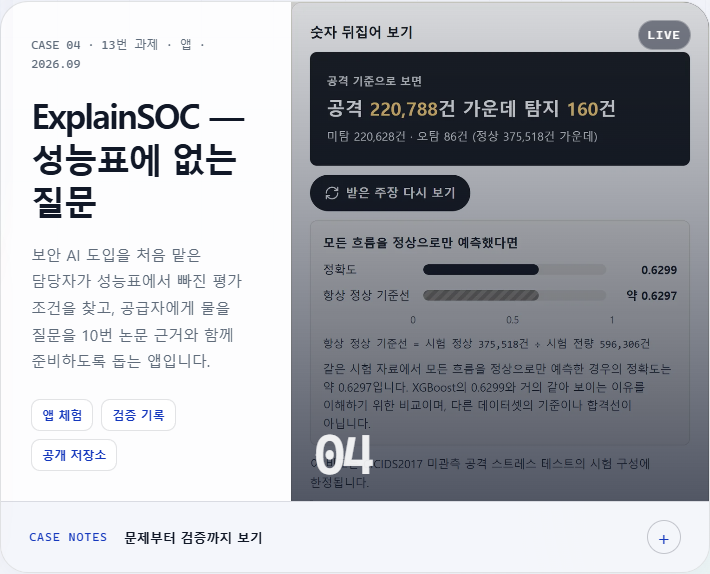
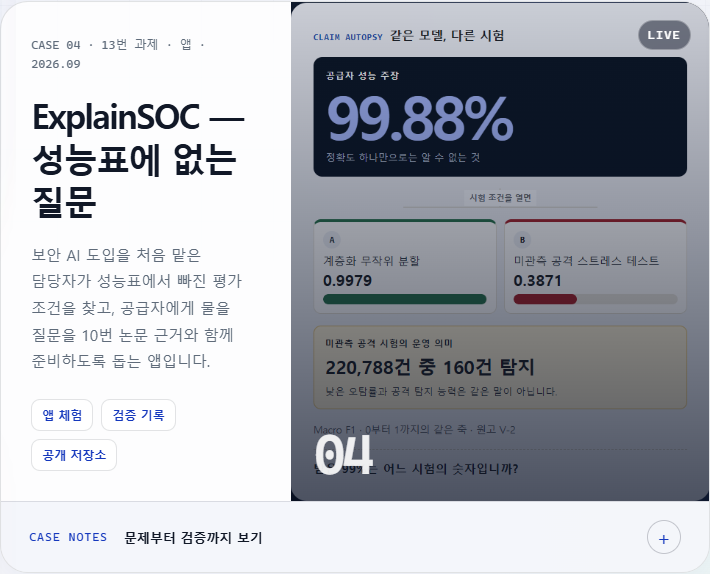
docs: record V4 release and portfolio proof

diff --git a/evidence/card-5.md b/evidence/card-5.md
@@ -1,8 +1,32 @@
 # 카드 5 증거 — 포트폴리오와 제출
 
+## V4 대표 앱 제출본 — 2026-09-22
+
+> 이 섹션이 아래 V1~V3 실행 묶음과 검증 값을 대체한다. 아래 내용은 당시 이력으로 남겨 둔다.
+
+| 항목 | V4 제출본 |
+|---|---|
+| 구현 커밋 | `32208672ed96d87fcd1ccb319d2c66a6debce41c` |
+| 배포 | [GitHub Actions run 35700989600](https://github.com/myeongjundev/explainsoc/actions/runs/35700989600) 검사·Pages 성공 |
+| 공개 주소 | https://myeongjundev.github.io/explainsoc/ |
+| 실행 묶음 | `explainsoc-3220867.zip` · 136,265 bytes · 62개 파일 |
[1 lines of base64/hex data omitted]
+| 재현 | 같은 커밋으로 두 번 생성한 SHA-256 일치 |
+| 빈 폴더 검증 | 저장소 밖 새 임시 폴더에서 `npm ci`, 프로덕션 빌드, 안전 검사 11개, Vitest 91개, Playwright 25개 통과(증거 캡처 9개 제외) |
+| 공개본 검증 | JS `index-CfDxTmKS.js`, CSS `index-2ZwK-MBR.css` 로컬 빌드와 SHA-256 일치 · Playwright 25개 통과 |
+
+V4는 기존 R01~R14·회차 JSON·보안 경계를 유지하면서 화면의 제품 서사를 바꿨다. 첫 화면에서
+`99.88% → 시험 조건 → 220,788건 중 160건 탐지`를 해부하고, 결과는 `주장과 근거 / 판독 / 다음 행동`
+3열 수사 보드로 읽는다. 같은 시험·미확인·별도 시험은 회차 타임라인에서 다른 분기로 보이며,
+Decision Dossier 앞장은 다음 회의의 질문 수와 우선 질문을 원문 기록보다 먼저 보여 준다.
+
+V4 전용 증거 화면은 `evidence/v4-investigation-board-desktop.png`,
+`evidence/v4-separate-branch-desktop.png`, `evidence/v4-dossier-mobile.png`에 있다. 공개 주소에서도 같은
+세 장을 `evidence/screenshots/live/`에 다시 찍었다.
+
 ## V3 제출본 갱신 — 2026-09-22
 
-> 이 섹션이 아래 V1·V2 기록의 실행 묶음·검증 값을 대체한다. 아래 내용은 당시의 이력으로 남겨 둔다.
+> V4 전 최종 V3 기록이다. 현재 제출본은 바로 위 V4 기록을 따른다.
 
 | 항목 | V3 제출본 |
 |---|---|
@@ -32,12 +56,12 @@ V3는 최초 주장과 후속 공급자 답변을 회차로 비교하고, 같은
 
 | 항목 | 값 |
 |---|---|
-| 저장소·커밋 | `myeongjundev/about` [`1dbbbfc`](https://github.com/myeongjundev/about/commit/1dbbbfc) (연결), [`ea77b4e`](https://github.com/myeongjundev/about/commit/ea77b4e) (검증 칸 테스트 수) — 제출본 `a413189` 뒤의 제출 뒤 갱신 |
+| 저장소·커밋 | `myeongjundev/about` [`5584650`](https://github.com/myeongjundev/about/commit/5584650) (V4 그림·사례 노트·검증 수) — 최초 연결 `1dbbbfc`, V3 갱신 `b52d33b` |
 | 바꾼 것 | `content/approved.json`의 `t13-app`을 `planned` → `published`. 예정일을 빼고 이름·한 문장·사례 노트 넷·그림·링크 셋을 채웠다 |
 | 이름 | ExplainSOC — 성능표에 없는 질문 |
 | 한 문장 | 보안 AI 도입을 처음 맡은 담당자가 성능표에서 빠진 평가 조건을 찾고, 공급자에게 물을 질문을 10번 논문 근거와 함께 준비하도록 돕는 앱입니다. |
 | 링크 | 앱 체험 (공개 주소) · 검증 기록 (`evidence/card-4.md`) · 공개 저장소 |
-| 그림 | `docs/assets/t13-claim-flip.webp` 900×1200 — 공개 주소에서 찍은 "숫자 뒤집어 보기" 칸 |
+| 그림 | `docs/assets/t13-claim-investigation-v4.png` 571×680 — 공개 주소의 Claim Autopsy 전체 |
 
 한 문장은 앱 첫 화면의 도움 문장에 "10번 논문"만 더했다. 12번 사이트에서 바로 위 카드가 10번
 논문이라 둘이 이어져 읽힌다.
@@ -47,16 +71,15 @@ V3는 최초 주장과 후속 공급자 답변을 회차로 비교하고, 같은
 | 칸 | 문장 | 근거 |
 |---|---|---|
 | 문제 | 10번 논문에서 같은 XGBoost가 무작위 분할에서는 Macro F1 0.9979, 학습에 없던 공격을 시험하면 0.3871이었습니다. 제품 소개서의 성능 숫자 하나로는 무엇을 시험한 점수인지 알 수 없습니다. | 원고 V-2, `evidence/card-1.md` |
-| 판단 | 숫자의 좋고 나쁨을 판정하는 대신, 논문 근거 규칙 13개로 빠진 조건과 모순을 찾고 질문·답변·다음 행동이 남는 PoC 검토 작업대로 바꿨습니다. | `planning/DESIGN.md`, `src/domain/reviewRules.ts` |
-| 구현 | React·TypeScript·Vite 정적 앱에 평가 근거 지도, 질문별 상태·메모, 회차 비교, JSON 저장·열기, 자료 요청서와 검토표를 연결했습니다. 입력은 브라우저 안에서만 다루고 콘텐츠 보안 정책으로 외부 전송을 막았습니다. | `evidence/card-3.md`, V3 구현 커밋 |
-| 검증 | 단위·컴포넌트 테스트 91개와 WCAG 2.2 AA를 포함한 실제 브라우저 테스트 24개를 통과한 커밋만 배포되게 했습니다. 재현 가능한 ZIP을 저장소 밖 빈 폴더에 풀어 설치·빌드·브라우저 검사까지 다시 통과했습니다. | `evidence/card-4.md`, 이 문서 V3 제출본 갱신 |
+| 판단 | 숫자의 좋고 나쁨을 판정하는 대신, 99% 주장을 시험 조건과 운영 의미로 해부하고 근거·판독·다음 행동이 이어지는 성능 주장 수사 보드로 만들었습니다. | `planning/DESIGN.md` 26절 |
+| 구현 | React·TypeScript·Vite 정적 앱에 Claim Autopsy, 6항목 근거 지도, 시험 분기 타임라인, 회차 JSON과 Decision Dossier를 연결했습니다. 입력은 브라우저 안에서만 다루고 콘텐츠 보안 정책으로 외부 전송을 막았습니다. | V4 구현 커밋 `3220867` |
+| 검증 | 단위·컴포넌트 테스트 91개와 WCAG 2.2 AA·375px·키보드·인쇄를 포함한 실제 브라우저 테스트 25개를 통과한 커밋만 배포되게 했습니다. 재현 가능한 ZIP을 저장소 밖 빈 폴더에 풀어 설치·빌드·브라우저 검사까지 다시 통과했습니다. | 이 문서 V4 제출본 기록 |
 
-처음 연결할 때는 74개였고 V1 카드에서 75개로 고쳤다(`ea77b4e`). V3 현재 수치는 91개·24개다.
+처음 연결할 때는 74개였고 V1 카드에서 75개로 고쳤다(`ea77b4e`). V4 현재 수치는 91개·25개다.
 
-**그림을 세로로 다시 찍은 이유.** 대표작 칸은 데스크톱에서 세로로 길다(417×500). 처음 넣은 가로
-화면(1200×750)은 가운데만 남아 "공격 220,788건 가운데 탐지 160건"이 "운데 탐지 160건"으로 잘렸다.
-결과 화면의 왼쪽 칸만 세로 3:4로 다시 찍어, 데스크톱 대표작·모바일 대표작·왼쪽 카드 묶음 세 곳에서 그
-문장이 온전히 보이게 했다.
+**V4 그림을 Claim Autopsy로 바꾼 이유.** 카드 한 장만 봐도 `99.88%`가 시험 A·B로 갈라지고
+`220,788건 중 160건 탐지`로 바뀌는 앱의 대표 장면을 읽을 수 있다. 전체 결과 화면을 줄여 넣지 않고,
+공개 주소의 `.claim-autopsy` 요소만 그대로 캡처해 글자와 축을 보존했다.
 
 | 데스크톱 대표작 | 모바일 대표작 | 왼쪽 카드 묶음 |
 |---|---|---|
@@ -71,8 +94,9 @@ V3는 최초 주장과 후속 공급자 답변을 회차로 비교하고, 같은
 | `python -m unittest device/test_device.py` | 20개 OK |
 | `python device/check_repeat.py` | PASS — 반복 결과와 기대 결과가 같다 |
 | `python device/validate_release.py --check-urls` | PASS — 새 링크 셋 포함 외부 링크 전부 |
-| `python release/build_release.py` | PASS — 임시 경로에 만들었다. 제출한 `release/out/T12-KimMyeongjun.zip`은 덮지 않았다 |
-| GitHub Pages 빌드 | 성공. 공개 HTML에 `work-t13-app` 공개 카드, 그림 200 `image/webp`, 왼쪽 카드 `01—08` |
+| `python release/build_release.py` | PASS — 로컬 `release/out/T12-KimMyeongjun.zip` 재생성 |
+| GitHub Actions | [T12 checks run 35702015373](https://github.com/myeongjundev/about/actions/runs/35702015373) 성공 |
+| GitHub Pages | [pages run 35702014987](https://github.com/myeongjundev/about/actions/runs/35702014987) 성공 · 공개 HTML에 V4 그림·25개 검증 문장 확인 |
 
 - 12번 테스트에 사례 노트 수가 3·12로 적혀 있어 4·16으로 고쳤다. 13번 카드가 왼쪽 카드와 대표작에
   모두 있는지 보는 줄 둘을 더했다.
@@ -120,7 +144,7 @@ V3는 최초 주장과 후속 공급자 답변을 회차로 비교하고, 같은
 | 제출물 | 본 방법 | 결과 |
 |---|---|---|
 | 공개 주소의 배포본 5개 파일(HTML·JS·CSS·아이콘·라이선스 고지) | 공개 서버에서 받아 비밀값·이메일·휴대전화·주민번호·데이터셋 저자 이름을 찾음 | 0건 |
-| 실행 묶음 `explainsoc-679add3.zip` 61개 파일 | 저장소 밖 빈 폴더에 풀어서 `npm run check`(폴더 탐색) + 저자 이름·PC 경로 검색 | 11개 PASS · 0건 |
+| 실행 묶음 `explainsoc-3220867.zip` 62개 파일 | 저장소 밖 빈 폴더에 풀어서 `npm run check`(폴더 탐색) + 저자 이름·PC 경로 검색 | 11개 PASS · 0건 |
 | 공개 저장소의 모든 파일(과제 기록·증거 포함) | `npm run check` + `git grep`으로 저자 이름, 이니셜+성 표기, 호칭(님·씨 등) 검색 | PASS · 0건 |
 | 12번 사이트의 13번 카드 | 문장·그림·링크 확인, 12번 `validate_release` | 다른 사람 이름 없음 · PASS |
 | 제출문 초안(이 문서 아래) | 직접 확인 | 다른 사람 이름 없음 |
@@ -143,20 +167,20 @@ V3는 최초 주장과 후속 공급자 답변을 회차로 비교하고, 같은
 
 ```text
 결과물: https://myeongjundev.github.io/explainsoc/ (로그인 없음)
-실행 묶음: explainsoc-679add3.zip — README.md "실행"대로 npm ci → npm run build → npm run preview 후
+실행 묶음: explainsoc-3220867.zip — README.md "실행"대로 npm ci → npm run build → npm run preview 후
   http://127.0.0.1:4173/explainsoc/ (Node.js 24.15 이상)
 
 어디에 무엇이
 - 첫 화면: 제목 "그 99%, 무엇을 시험한 점수입니까?", 누구를 어떻게 돕는지 한 문장, 반영한 논문 제목
 - 묶음 안: src/data/paperEvidence.ts(논문 근거 P01~P10과 수치), src/domain/reviewRules.ts(판독 규칙
-  R01~R14), tests/(단위·컴포넌트 91개, 브라우저 24개)
+  R01~R14), tests/(단위·컴포넌트 91개, 브라우저 25개)
 
 세 행동 해 보기
 1) "논문 예시로 60초 검토"를 누르거나, "내 성능표 검토"에서 지표 하나(예: 정확도 0.99)를 적는다.
-2) 결과에서 "현재 회차 저장 후 다음 답변 받기"를 누르고, 후속 답변에 공격 Recall 0.0007을 적은 뒤
+2) 결과에서 "현재 회차 저장 · 다음 답변 추가"를 누르고, 후속 답변에 공격 Recall 0.0007을 적은 뒤
    같은 시험 여부는 모름으로 두고 결과를 본다.
 3) 변화 비교에서 해결됨·남음·새로 생김을 보고 같은 시험 여부를 예로 바꿔 R14가 사라지는지 확인한다.
-   "작업 파일 저장"으로 JSON을 내려받아 "작업 파일 열기"로 다시 열고, 두 회차가 돌아오는지 확인한다.
+   "사례 JSON 내려받기"로 JSON을 내려받아 "검토 파일 열기"로 다시 열고, 두 회차가 돌아오는지 확인한다.
 
 무엇이 나오면 통과
 - 논문 예시: "공격 220,788건 가운데 탐지 160건"과 공급자 질문 "같은 시험에서 공격 Recall은
@@ -172,13 +196,13 @@ V3는 최초 주장과 후속 공급자 답변을 회차로 비교하고, 같은
 | 무엇 | 값 |
 |---|---|
 | 결과물 URL | https://myeongjundev.github.io/explainsoc/ |
[2 lines of base64/hex data omitted]
 | 라이선스 | MIT (`LICENSE`, 2026-09-22 사용자 결정). GitHub도 저장소를 MIT로 인식한다 |
 | 짧은 확인 방법 | 위 BRB-C13 |
 | 제출문 세 줄 | 아래 BRB-C14 — ②는 사용자가 쓴다 |
 
 V1 묶음은 인용·라이선스·README 변경 때마다 갱신했고, V2에서 작업대 기능을 더한 묶음으로 교체했다.
-현재 제출물은 V3 구현 커밋으로 만든 **`explainsoc-679add3.zip`**이다. 같은 커밋에서 두 번 만들어 같은
+현재 제출물은 V4 구현 커밋으로 만든 **`explainsoc-3220867.zip`**이다. 같은 커밋에서 두 번 만들어 같은
 SHA-256이 나왔고, 저장소 밖 새 임시 폴더에서 전체 검사를 다시 통과했다. 다시 만드는 방법은
 `planning/HANDOFF-2026-09-22.md` 1-0에 있다.
 
@@ -194,34 +218,34 @@ SHA-256이 나왔고, 저장소 밖 새 임시 폴더에서 전체 검사를 다
 | https://github.com/myeongjundev/explainsoc-research/blob/main/output/pdf/T10-research-paper.pdf | 200 · 0 · 0 |
 | https://myeongjundev.github.io/explainsoc/third-party-licenses.md | 200 · 0 · 0 |
 
-공개 주소는 새 브라우저 컨텍스트(쿠키·저장소·로그인 없음)에서 브라우저 테스트 24개를 다시 통과했다.
-최종 배포본 `index--yn4oNyf.js`와 `index-D1Vo0e1F.css`는 로컬 빌드와 SHA-256이 같다.
+공개 주소는 새 브라우저 컨텍스트(쿠키·저장소·로그인 없음)에서 브라우저 테스트 25개를 다시 통과했다.
+최종 배포본 `index-CfDxTmKS.js`와 `index-2ZwK-MBR.css`는 로컬 빌드와 SHA-256이 같다.
 
 ### 최종 묶음의 새 임시 폴더 실행
 
-저장소 밖 세션 임시 폴더 아래 빈 폴더에 PowerShell `Expand-Archive`로 풀었다. 아래는 V3 묶음의 결과다.
+저장소 밖 세션 임시 폴더 아래 빈 폴더에 PowerShell `Expand-Archive`로 풀었다. 아래는 V4 묶음의 결과다.
 
 ```text
-<새 임시 폴더>\explainsoc-679add3> npm ci
+<새 임시 폴더>\explainsoc-3220867> npm ci
 added 113 packages, and audited 114 packages
 found 0 vulnerabilities
 
-<새 임시 폴더>\explainsoc-679add3> npm run build
-✓ 48 modules transformed.
-dist/assets/index-D1Vo0e1F.css
-dist/assets/index--yn4oNyf.js
+<새 임시 폴더>\explainsoc-3220867> npm run build
+✓ 49 modules transformed.
+dist/assets/index-2ZwK-MBR.css
+dist/assets/index-CfDxTmKS.js
 
-<새 임시 폴더>\explainsoc-679add3> npm run preview
+<새 임시 폴더>\explainsoc-3220867> npm run preview
   ➜  Local:   http://127.0.0.1:4173/explainsoc/
 ```
 
 | 확인 | 결과 |
 |---|---|
-| 풀린 파일 | 61개(`LICENSE` 포함), `node_modules`·`.git`·`dist` 없음 |
-| 자산 이름 | 공개 주소와 같다(`index--yn4oNyf.js`, `index-D1Vo0e1F.css`) |
-| `npm run check` | 폴더 탐색 · 61개 파일 · 앱 소스 36개 · 11개 PASS |
+| 풀린 파일 | 62개(`LICENSE` 포함), `node_modules`·`.git`·`dist` 없음 |
+| 자산 이름 | 공개 주소와 같다(`index-CfDxTmKS.js`, `index-2ZwK-MBR.css`) |
+| `npm run check` | 폴더 탐색 · 62개 파일 · 앱 소스 37개 · 11개 PASS |
 | `npm test` | 91개 통과 |
-| `npm run test:e2e` | 24개 통과, 증거 캡처 9개 제외 |
+| `npm run test:e2e` | 25개 통과, 증거 캡처 9개 제외 |
 
 ## 제출문 세 줄 — BRB-C14
 

diff --git a/planning/STATUS.md b/planning/STATUS.md
@@ -1,5 +1,23 @@
 # 진행 기록
 
+## 2026-09-22 — 대표 앱 V4 성능 주장 수사 보드
+
+- 첫 화면을 `99.88% 주장 → 두 시험 → 220,788건 중 160건 탐지`가 한 장면에서 보이는 Claim Autopsy로
+  바꾸고, 모바일에서는 CTA 바로 다음에 대표 장면이 시작되게 했다.
+- 결과를 `주장과 근거 / 판독 / 다음 행동` 3열 보드로 재구성하고, 점수가 아닌 6항목 근거 지도와
+  같은 시험·미확인·별도 시험 타임라인 분기를 추가했다.
+- 검토표는 다음 회의 질문을 먼저 보여 주는 Decision Dossier 앞장과 펼칠 수 있는 전체 기록으로 나눴다.
+  인쇄에서는 앞장과 전체 기록만 나오도록 별도 회귀 검사를 추가했다.
+- 구현 커밋 `3220867`; GitHub Actions [run 35700989600](https://github.com/myeongjundev/explainsoc/actions/runs/35700989600)의
+  검사와 Pages 배포가 성공했다. 공개 `index-CfDxTmKS.js`·`index-2ZwK-MBR.css`의 SHA-256은 로컬과 같다.
+- 안전 검사 11개, Vitest 91개, Playwright 25개와 증거 화면 9개를 통과했다. 공개 주소도 같은 25개를
+  통과했고 375px 가로 넘침, WCAG 2.2 AA, 키보드, 모션 감소, 인쇄를 포함한다.
+- 실행 묶음은 `explainsoc-3220867.zip`(136,265 bytes, 62개 파일), SHA-256
[1 lines of base64/hex data omitted]
+  저장소 밖 빈 폴더에서 설치·빌드·안전 검사·Vitest·Playwright를 다시 통과했다.
+- 12번 포트폴리오 카드도 `about` 커밋 `5584650`에서 V4 Claim Autopsy 그림, 수사 보드 판단,
+  브라우저 테스트 25개 문장으로 갱신했고 T12 검사와 Pages 배포가 성공했다.
+
 ## 2026-09-22 — V3 독립 리뷰 R1~R5·L1~L3 반영
 
 - 같은 시험이 `아니오`면 규칙 소멸을 `해결됨`으로 부르지 않고 이전 시험과 이번 별도 시험의 판독을
@@ -77,12 +95,12 @@
 - **완료 정의에서 아직 사실이 아닌 두 줄:** "사용자는 설명 없이 세 행동을 완주할 수 있다", "논문
   예시의 서명 장면이 60초 안에 전달된다"는 사람이 써 봐야 확인된다. 자동 테스트로는 통과했다.
 
-## 남은 일 — 사용자 (V3에도 계속 해당)
+## 남은 일 — 사용자 (V4에도 계속 해당)
 
 1. **처음 보는 동료 한 명(BRB-C11)과 사람이 잰 60초.** 공개 주소만 주고 설명 없이 써 보게 한 뒤, 걸린
    시간·막힌 곳·이름 없는 한 줄을 `evidence/card-5.md`의 양식에 적는다.
 2. **제출문 ② `내가 직접 판단한 일`(BRB-C14).** 사용자가 직접 쓴다. ①·③은 사실 초안이 있다.
-3. **제출.** 결과물 URL과 `explainsoc-679add3.zip`(학원 PC에서는 `npm run release:zip -- 679add3`로 다시 만든다),
+3. **제출.** 결과물 URL과 `explainsoc-3220867.zip`(학원 PC에서는 `npm run release:zip -- 3220867`로 다시 만든다),
    짧은 확인 방법, 세 줄. 자세한 순서는 `planning/HANDOFF-2026-09-22.md`.
 
 ## 2026-09-22 — 카드 1~4 구현 (Claude)

diff --git a/planning/IMPLEMENTATION-CHECKLIST.md b/planning/IMPLEMENTATION-CHECKLIST.md
@@ -154,3 +154,18 @@ C16~C21은 원문에 없으므로 만들거나 검사하지 않는다.
 - [x] 검토표와 요청서의 R·P 코드를 규칙 제목·원고 절·근거 제목으로 풀이
 - [x] 같은 시험 선택 칸 전체 너비와 사례 파일 열기 포커스 표시
 - [x] V3 단위·컴포넌트·브라우저·안전 검증 — Vitest 91개, Playwright 24개(증거 캡처 전용 9개 제외) 통과
+
+---
+
+## 8. 대표 앱 V4 — 성능 주장 수사 보드
+
+- [x] `99.88% → 시험 조건 → 운영 의미` Claim Autopsy
+- [x] 모바일 CTA 다음에 대표 장면 배치
+- [x] 주장과 근거 / 판독 / 다음 행동 3열 보드와 모바일 세로 순서
+- [x] 점수 없는 6항목 근거 지도
+- [x] 같은 시험 병합 / 출처 미확인 / 별도 시험 타임라인 분기
+- [x] 다음 회의 질문을 먼저 보여 주는 Decision Dossier 앞장
+- [x] 화면용 접힌 전체 기록과 인쇄용 전체 기록
+- [x] 기존 R01~R14·사례 JSON·개인정보·CSP 경계 유지
+- [x] V4 단위·브라우저·안전 검증 — Vitest 91개, Playwright 25개(증거 캡처 전용 9개 제외) 통과
+- [x] 로컬·저장소 밖 빈 폴더·공개 주소에서 같은 검증 통과
